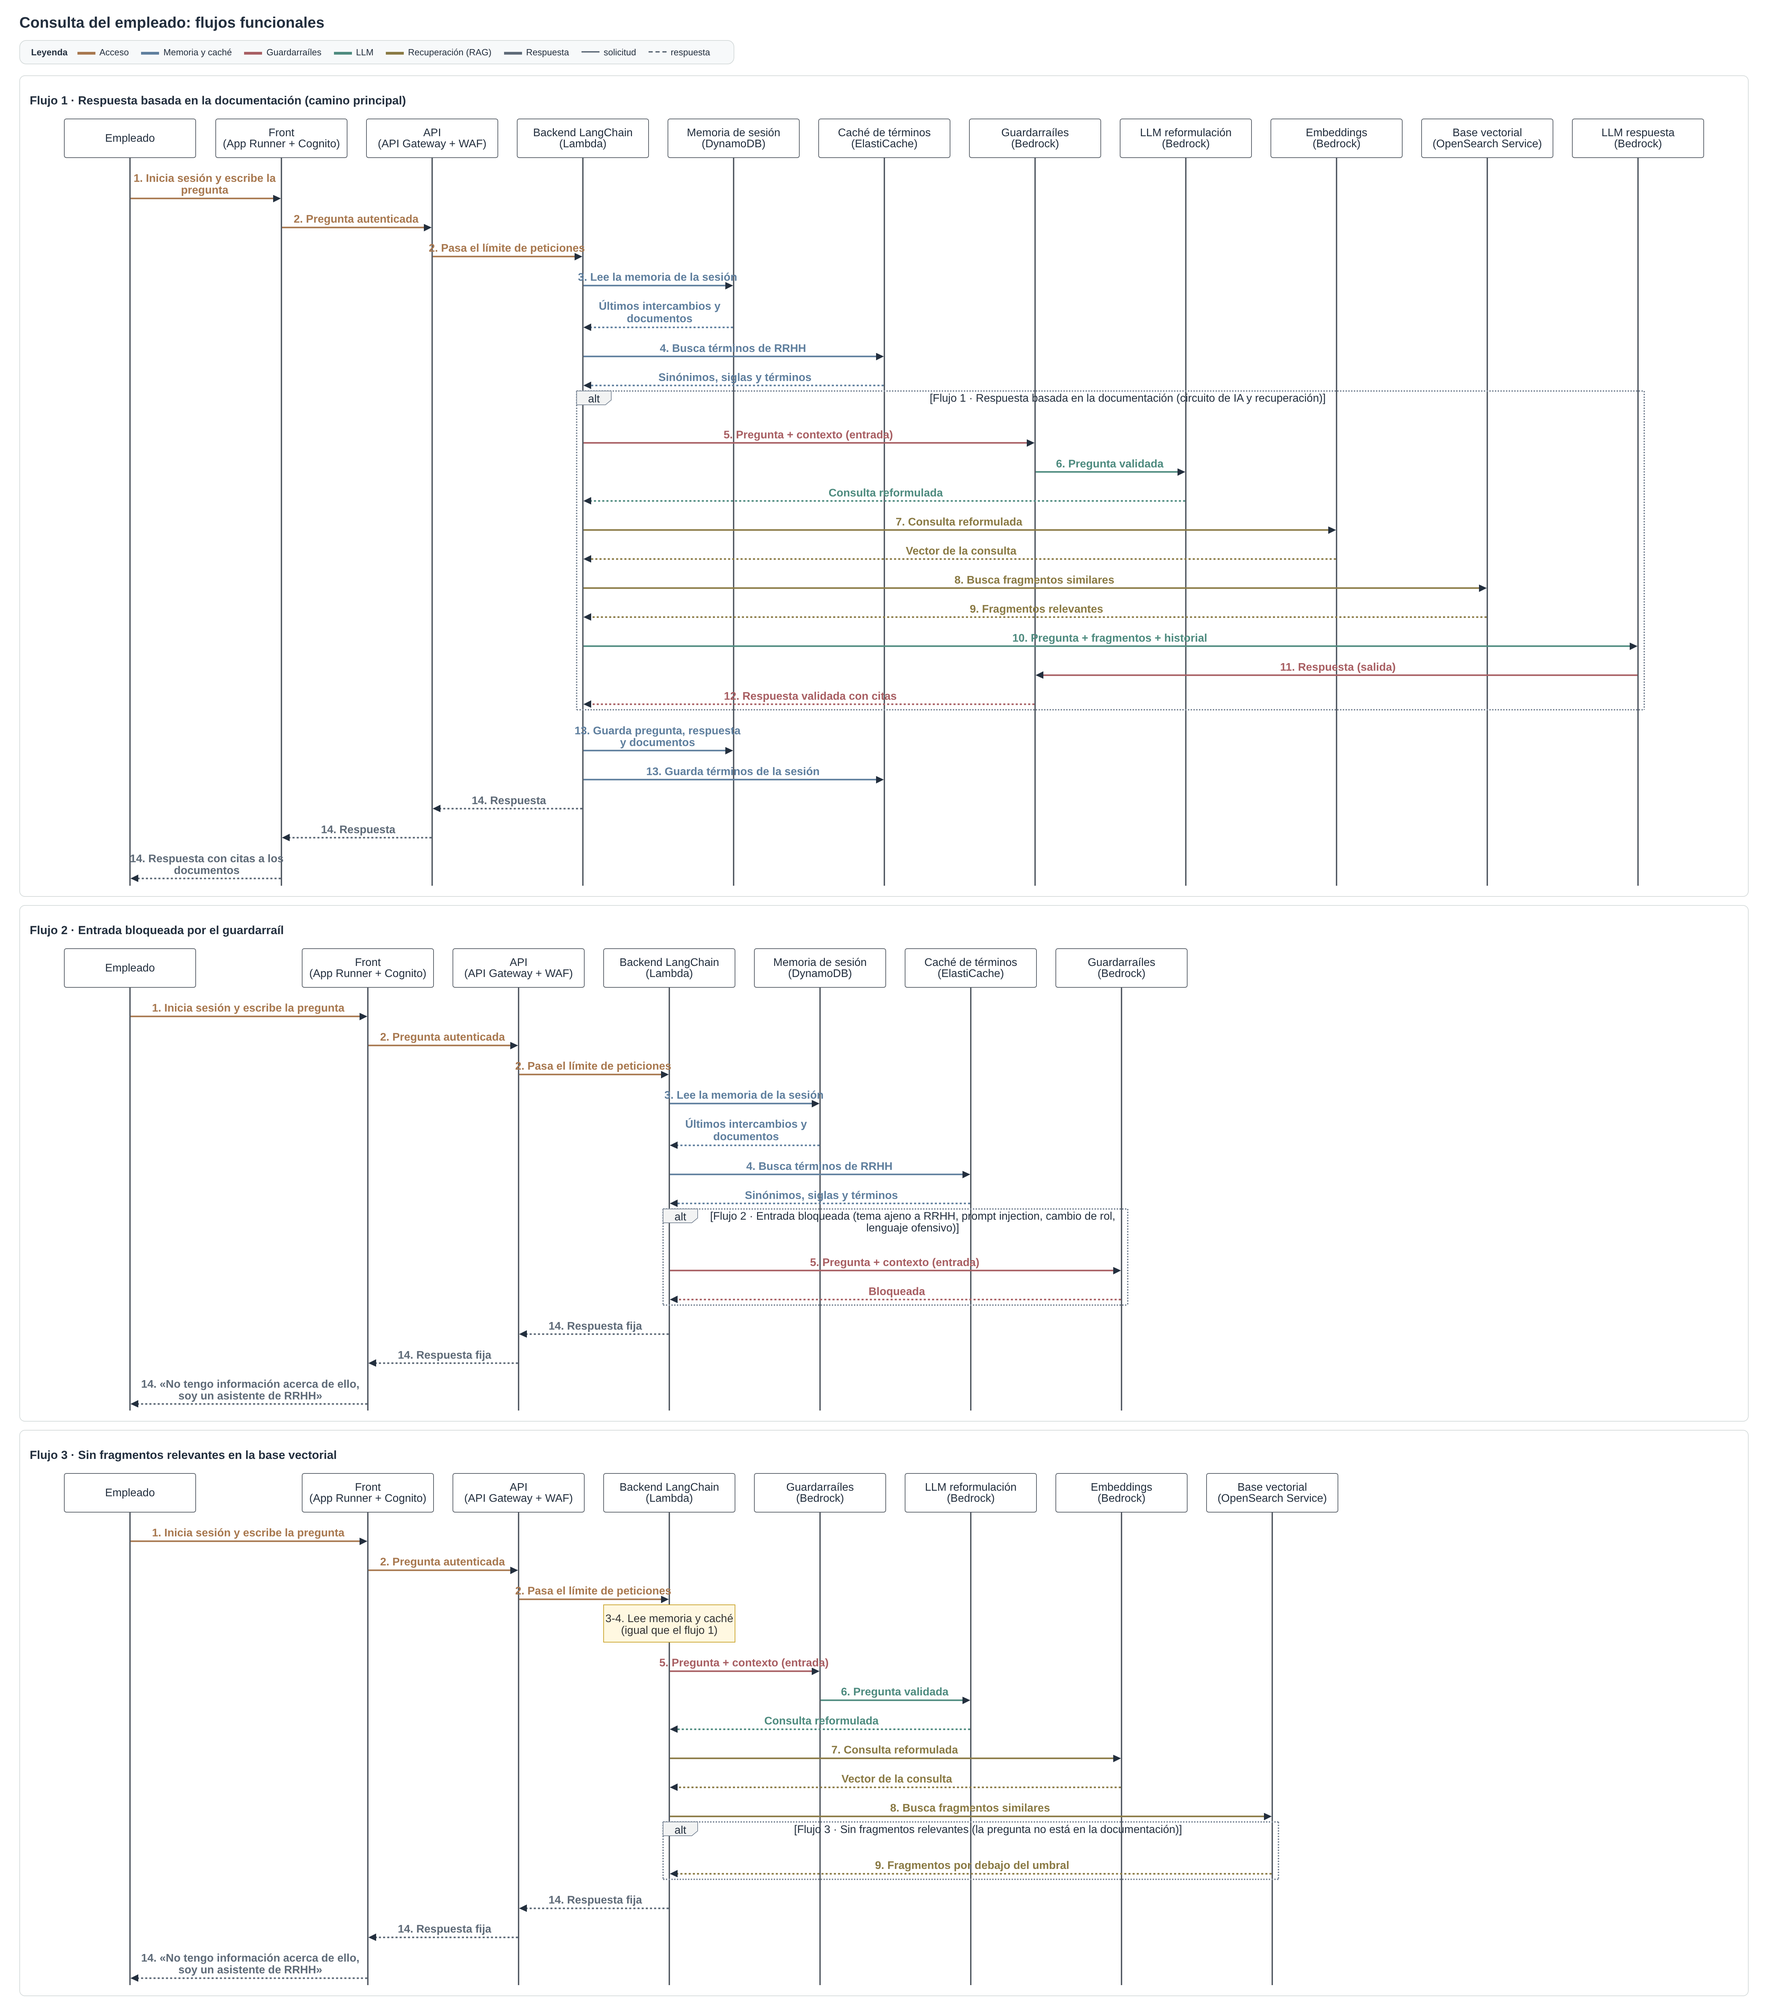
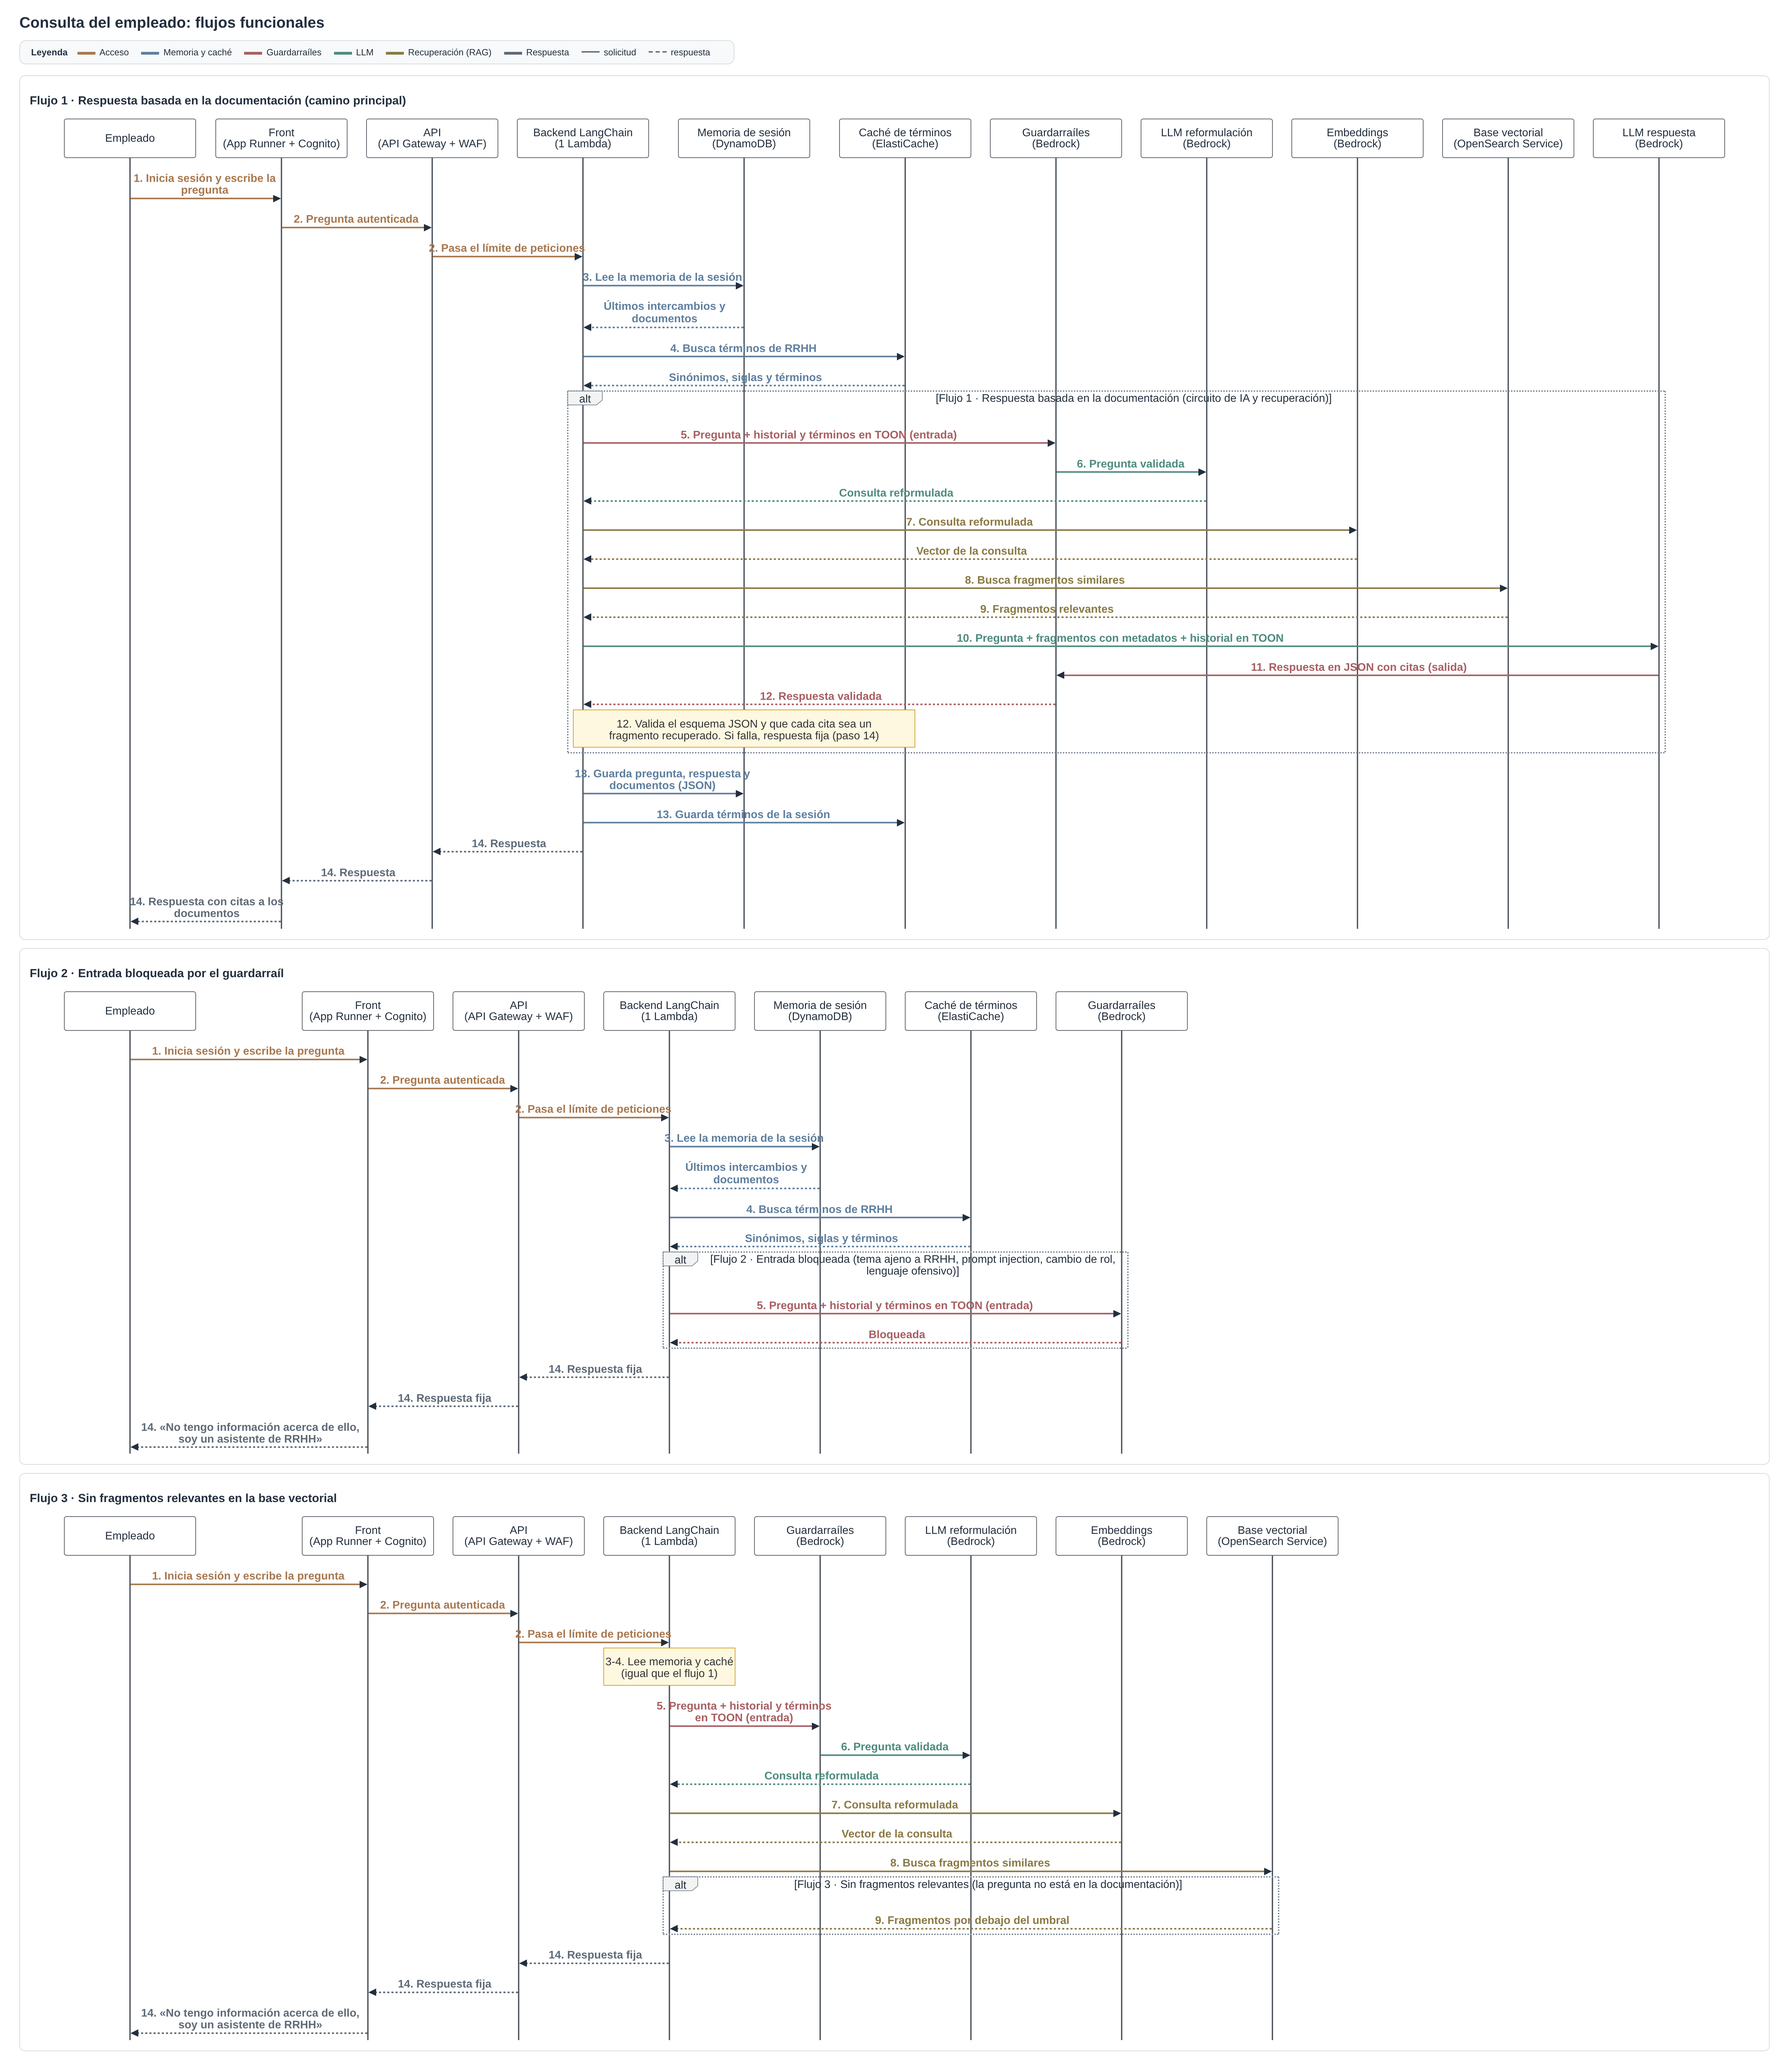
some changes applied: TOON format and some lambdas specification

diff --git a/Langchain/README.md b/Langchain/README.md
@@ -25,6 +25,7 @@
 > | Icono de permisos + código | Rol y política IAM de esa conexión (tabla de abajo) |
 > | Icono pequeño sobre un componente | Servicio de seguridad u operación que lo protege u observa |
 > | Línea continua / discontinua | Llamada o envío de datos / respuesta o retorno |
+> | (TOON) / (JSON) en una etiqueta | Formato de lo que viaja: TOON en lo que entra al LLM, JSON en lo que sale y en lo que se guarda |
 
 ### Roles y políticas IAM
 
@@ -53,6 +54,18 @@ Cada icono de permisos del diagrama lleva uno de estos códigos:
 - **CloudWatch:** logs, métricas y alarmas de Lambdas y API Gateway, sin datos personales.
 - **CloudTrail:** auditoría de los cambios en los documentos de RRHH.
 
+### Lambdas
+
+Hay **2 Lambdas**, una por flujo. Las dos se ejecutan en la **subred privada de aplicación** y cada una tiene su propio rol IAM.
+
+| Lambda | Flujo | Rol IAM | Para qué sirve |
+|---|---|---|---|
+| Backend LangChain | Consulta | Backend de consulta (RC) | Recibe la pregunta desde API Gateway y orquesta la cadena RAG con memoria: lee la memoria de sesión y la caché de términos, pasa la entrada por el guardarraíl, monta los prompts en TOON, llama al LLM de reformulación, a los embeddings y a la base vectorial, aplica el control de relevancia, llama al LLM de respuesta, valida su JSON, guarda memoria y términos y devuelve la respuesta o la respuesta fija. |
+| Ingesta | Ingesta (programada) | Ingesta (RI) | La lanza EventBridge Scheduler fuera del horario laboral: lee de S3 los documentos nuevos o modificados, los divide en fragmentos, obtiene un vector por fragmento, los indexa en OpenSearch con la referencia al documento y actualiza el glosario común de la caché. |
+
+- **Consulta en una sola Lambda:** es una cadena corta y secuencial por pregunta. Repartirla en varias Lambdas añadiría saltos de red, arranques en frío y latencia sin beneficio, porque sus pasos no escalan por separado.
+- **Ingesta en una sola Lambda, sin orquestador:** el lote es pequeño (documentos de RRHH), siempre sigue los mismos pasos y no tiene ramas ni revisión humana. *Revisar si* el volumen crece hasta acercarse al límite de duración de una ejecución de Lambda (15 minutos): entonces se separaría en una Lambda que lista los documentos y otra que procesa cada uno en paralelo desde una cola.
+
 
 ### Flujos funcionales (secuencia)
 
@@ -71,14 +84,14 @@ Cada icono de permisos del diagrama lleva uno de estos códigos:
 | 3 | Memoria de sesión (DynamoDB) | El backend recupera los últimos intercambios y los documentos ya consultados. |
 | 4 | Caché de términos (ElastiCache) | Aporta sinónimos y siglas de RRHH y los términos ya usados en la sesión. |
 | 5 | Guardarraíl de entrada | Bloquea temas ajenos a RRHH, prompt injection, cambio de rol y lenguaje ofensivo. Si bloquea, respuesta fija (paso 14). |
-| 6 | LLM de reformulación | Forma la consulta al RAG con la pregunta y el contexto relevante de la conversación. |
+| 6 | LLM de reformulación | Forma la consulta al RAG con la pregunta y el contexto relevante de la conversación (historial y términos, en TOON). Devuelve la consulta como texto. |
 | 7 | Embeddings | Convierte la consulta en un vector (mismo modelo que en la ingesta). |
 | 8 | Base vectorial (OpenSearch) | Busca los fragmentos más relevantes, priorizando los documentos ya consultados. |
 | 9 | Control de relevancia | Si ningún fragmento es suficientemente relevante, respuesta fija (paso 14). |
-| 10 | LLM de respuesta | Responde solo con los fragmentos, con instrucciones de sistema restrictivas, y cita el documento. |
+| 10 | LLM de respuesta | Responde solo con los fragmentos (en TOON, con el documento y la sección de cada uno), con instrucciones de sistema restrictivas, y devuelve un JSON con la respuesta y los documentos citados. |
 | 11 | Guardarraíl de salida | Bloquea respuestas de cambio de rol, contenido no apoyado en los documentos y datos personales. |
-| 12 | Backend LangChain | Recibe la respuesta validada. |
-| 13 | Memoria + caché de términos | Guarda pregunta, respuesta, documentos usados y términos de la sesión. |
+| 12 | Backend LangChain | Recibe la respuesta validada y comprueba el esquema del JSON y que cada cita corresponda a un fragmento recuperado. Si falla, respuesta fija (paso 14). |
+| 13 | Memoria + caché de términos | Guarda pregunta, respuesta, documentos usados y términos de la sesión (en JSON). |
 | 14 | Front | Devuelve la respuesta con las citas, o "No tengo información acerca de ello, soy un asistente de RRHH". |
 
 ### Pasos de la ingesta
@@ -88,7 +101,7 @@ Cada icono de permisos del diagrama lleva uno de estos códigos:
 | I1 | Documentos RRHH (S3) | El administrador de RRHH sube o actualiza documentos (horario laboral). |
 | I2 | EventBridge Scheduler + Lambda de ingesta | Fuera del horario laboral se procesan los documentos nuevos o modificados y se dividen en fragmentos. |
 | I3 | Embeddings | Un vector por fragmento. |
-| I4 | Base vectorial (OpenSearch) | Guarda vectores, texto y referencia al documento para poder citarlo. |
+| I4 | Base vectorial (OpenSearch) | Guarda vectores, texto y referencia al documento (en JSON) para poder citarlo. |
 | I5 | Caché de términos | Actualiza el glosario común de RRHH. |
 
 ## 3. Descripción de componentes
@@ -98,7 +111,7 @@ Cada icono de permisos del diagrama lleva uno de estos códigos:
 | Front | Interfaz de chat del empleado | AWS App Runner | Ejecuta la web en contenedor sin gestionar servidores, escala solo y se despliega desde el repositorio por CI/CD. |
 | Autenticación | Identificar al empleado con su cuenta corporativa | Amazon Cognito | Federación con el directorio corporativo y MFA; entrega tokens que valida API Gateway. |
 | API y límite de peticiones | Única entrada al backend; protección frente a avalanchas de prompts | Amazon API Gateway + AWS WAF | Autorización con Cognito, límites por usuario y reglas por tasa; separa el front del backend. |
-| Backend LangChain | Orquesta la cadena RAG con memoria (memoria, guardarraíles, LLM, recuperación) | AWS Lambda | Cada pregunta es una petición corta y sin estado; escala por petición y no cuesta fuera del horario laboral. |
+| Backend LangChain | Orquesta la cadena RAG con memoria (memoria, guardarraíles, LLM, recuperación), monta los prompts en TOON y valida la respuesta en JSON | AWS Lambda | Cada pregunta es una petición corta y sin estado; escala por petición y no cuesta fuera del horario laboral. |
 | Memoria de sesión | Últimos intercambios y documentos consultados de cada sesión | Amazon DynamoDB | Clave-valor serverless, latencia baja, caducidad automática de registros (retención corta por RGPD). |
 | Caché de términos | Glosario común de RRHH + términos de la sesión | Amazon ElastiCache (Multi-AZ) | Lecturas en memoria de muy baja latencia en cada pregunta; réplica en otra AZ. |
 | Guardarraíles de entrada y salida | Filtrar entradas no deseadas y respuestas fuera de rol o no apoyadas en documentos | Amazon Bedrock Guardrails | Temas denegados, filtro de palabras, detección de ataques de prompt, comprobación de grounding y datos personales, gestionados. |
@@ -116,6 +129,7 @@ Cada icono de permisos del diagrama lleva uno de estos códigos:
 ## 4. Decisiones clave
 
 - **Solo documentación de RRHH:** guardarraíl de entrada, control de relevancia, instrucciones de sistema restrictivas y guardarraíl de salida. Si no hay información, respuesta fija indicando que es un asistente de RRHH.
+- **TOON en lo que entra al LLM, JSON en lo que sale y en el almacenamiento:** el backend escribe en TOON el contexto de los prompts (historial y términos para la reformulación; fragmentos con sus metadatos e historial para la respuesta). Son listas de registros con los mismos campos, y TOON las expresa con menos tokens que JSON, lo que abarata cada llamada. Lo que sale del LLM y hay que validar (la respuesta con sus citas) va en JSON con esquema, y la memoria, la caché y la base vectorial guardan JSON. TOON es solo el formato del prompt: se genera al montarlo y no se almacena. La consulta reformulada es texto y no necesita formato.
 - **Reformulación antes de buscar:** la consulta al RAG se forma con lo último relevante de la conversación, no con el historial completo.
 - **Memoria por sesión y de corta duración**, guardando qué documentos se usaron para enlazar el hilo con ellos.
 - **Caché de términos en dos niveles:** glosario común de RRHH (se actualiza en la ingesta) y términos de la sesión (caducan con ella).
